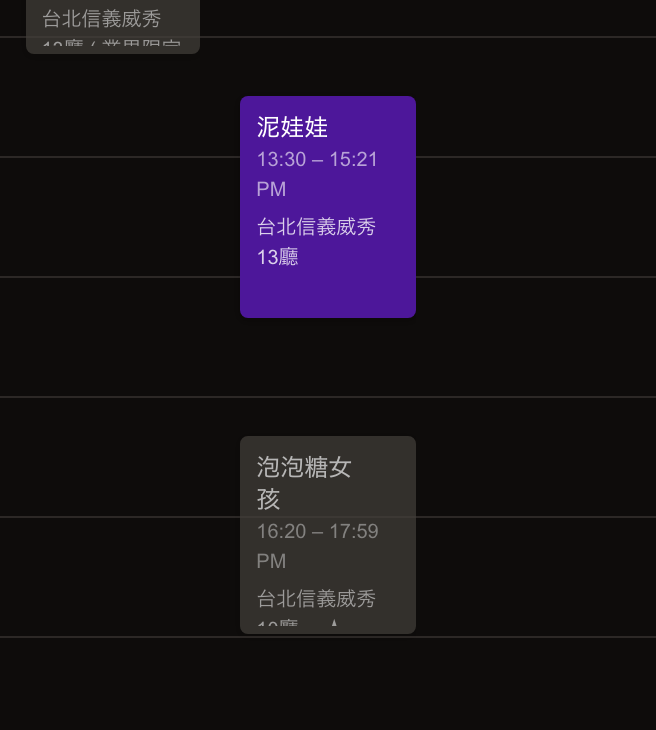
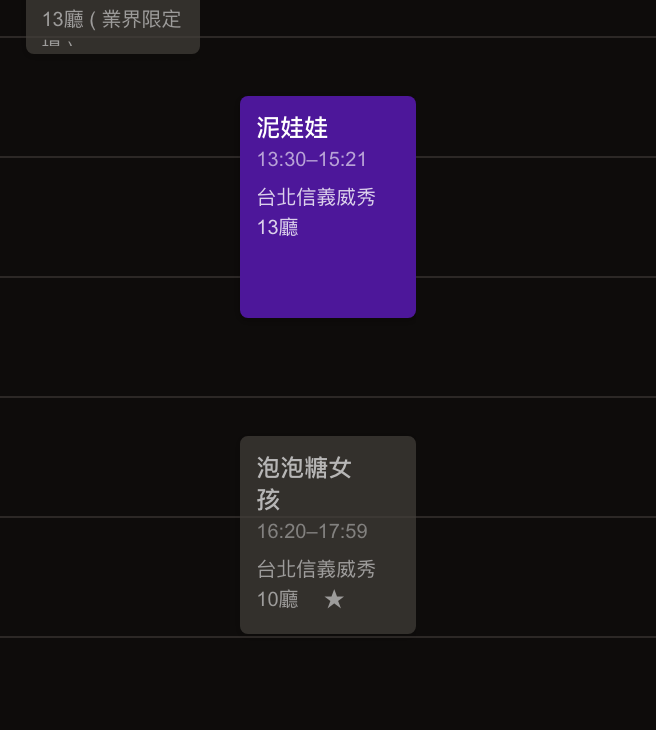
feat(ui): translate remaining UI to Traditional Chinese
- Hour labels in week and day view use 24-hour "10:00" instead of "10 AM",
  matching session times elsewhere; session blocks read "13:30–15:21".
- Now indicator reads "現在 22:45".
- Mini calendar: 日…六 weekday row, "11月" month label, and tooltips via
  the new formatDateTimeZh() ("11/20（五）21:40") instead of
  toLocaleString(); the import dialog uses it too.
- Screen-reader text in the shadcn primitives (關閉, 切換側欄, 上一張/下一張).
- <html lang="zh-Hant-TW">.
- Remove the unused FilmModal component.
- Re-capture the tutorial screenshots with the new labels.

diff --git a/apps/film-scheduler/components/SessionsMiniPreview.tsx b/apps/film-scheduler/components/SessionsMiniPreview.tsx
@@ -1,5 +1,5 @@
 import React, { useMemo } from "react";
-import dayjs from "dayjs";
+import dayjs, { formatDateTimeZh } from "@/lib/dayjs";
 import {
   TooltipTrigger,
   TooltipProvider,
@@ -77,7 +77,7 @@ export const SessionsMiniPreview: React.FC<MonthViewProps> = ({
   return (
     <div className="rounded-lg border p-3">
       <div className="mb-1 grid grid-cols-7 gap-1">
-        {["Sun", "Mon", "Tue", "Wed", "Thu", "Fri", "Sat"].map((day) => (
+        {["日", "一", "二", "三", "四", "五", "六"].map((day) => (
           <div key={day} className="text-center text-[0.7rem] font-medium text-muted-foreground">
             {day}
           </div>
@@ -94,7 +94,7 @@ export const SessionsMiniPreview: React.FC<MonthViewProps> = ({
               <div className="mb-1 flex items-baseline gap-1 text-xs leading-none">
                 <span className="font-medium tabular-nums">{day.format("D")}</span>
                 {showMonth && (
-                  <span className="truncate text-[0.65rem] text-muted-foreground">{day.format("MMM")}</span>
+                  <span className="truncate text-[0.65rem] text-muted-foreground">{day.format("M月")}</span>
                 )}
               </div>
               {sessions.map((session) => {
@@ -114,7 +114,7 @@ export const SessionsMiniPreview: React.FC<MonthViewProps> = ({
                       </TooltipTrigger>
                       <TooltipContent side="bottom">
                         {session.film.filmTitle} {session.location} -{" "}
-                        {new Date(session.time).toLocaleString()}
+                        {formatDateTimeZh(session.time)}
                       </TooltipContent>
                     </Tooltip>
                   </TooltipProvider>

diff --git a/apps/film-scheduler/components/ui/sidebar.tsx b/apps/film-scheduler/components/ui/sidebar.tsx
@@ -281,7 +281,7 @@ const SidebarTrigger = React.forwardRef<
       {...props}
     >
       <PanelLeft />
-      <span className="sr-only">Toggle Sidebar</span>
+      <span className="sr-only">切換側欄</span>
     </Button>
   )
 })
@@ -297,10 +297,10 @@ const SidebarRail = React.forwardRef<
     <button
       ref={ref}
       data-sidebar="rail"
-      aria-label="Toggle Sidebar"
+      aria-label="切換側欄"
       tabIndex={-1}
       onClick={toggleSidebar}
-      title="Toggle Sidebar"
+      title="切換側欄"
       className={cn(
         "absolute inset-y-0 z-20 hidden w-4 -translate-x-1/2 transition-all ease-linear after:absolute after:inset-y-0 after:left-1/2 after:w-[2px] hover:after:bg-sidebar-border group-data-[side=left]:-right-4 group-data-[side=right]:left-0 sm:flex",
         "in-data-[side=left]:cursor-w-resize in-data-[side=right]:cursor-e-resize",

diff --git a/apps/film-scheduler/components/ImportModal.tsx b/apps/film-scheduler/components/ImportModal.tsx
@@ -11,6 +11,7 @@ import { Button } from "@/components/ui/button";
 import { Checkbox } from "@/components/ui/checkbox";
 import { SessionsMiniPreview } from "@/components/SessionsMiniPreview";
 import { Session, FilmsMap } from "@/components/types";
+import { formatDateTimeZh } from "@/lib/dayjs";
 
 interface ImportModalProps {
   sessions: Session[];
@@ -107,7 +108,7 @@ export function ImportModal({
                 />
                 <label htmlFor={`checkbox-${sessionId}`}>
                   {film.filmTitle} {session.location} -{" "}
-                  {new Date(session.time).toLocaleString()}
+                  {formatDateTimeZh(session.time)}
                 </label>
               </div>
             );

diff --git a/apps/film-scheduler/components/ui/dialog.tsx b/apps/film-scheduler/components/ui/dialog.tsx
@@ -46,7 +46,7 @@ const DialogContent = React.forwardRef<
       {children}
       <DialogPrimitive.Close className="absolute right-4 top-4 rounded-sm opacity-70 ring-offset-background transition-opacity hover:opacity-100 focus:outline-hidden focus-visible:ring-2 focus-visible:ring-ring focus-visible:ring-offset-2 disabled:pointer-events-none data-[state=open]:bg-accent data-[state=open]:text-muted-foreground">
         <Cross2Icon className="h-4 w-4" />
-        <span className="sr-only">Close</span>
+        <span className="sr-only">關閉</span>
       </DialogPrimitive.Close>
     </DialogPrimitive.Content>
   </DialogPortal>

diff --git a/apps/film-scheduler/components/WeekView.tsx b/apps/film-scheduler/components/WeekView.tsx
@@ -682,7 +682,7 @@ export function WeekView({
               <span className="md:text-xs text-[10px] absolute p-1 -top-3 bg-background">
                 {dayjs()
                   .hour(startHour + hour)
-                  .format("h A")}
+                  .format("HH:00")}
               </span>
             </div>
           ))}
@@ -704,7 +704,7 @@ export function WeekView({
           }}
         >
           <span className="absolute bg-brand text-brand-foreground text-xs px-1 rounded-b left-2">
-            Now {now.format("HH:mm")}
+            現在 {now.format("HH:mm")}
           </span>
         </div>
       )}

diff --git a/apps/film-scheduler/components/ui/sheet.tsx b/apps/film-scheduler/components/ui/sheet.tsx
@@ -66,7 +66,7 @@ const SheetContent = React.forwardRef<
     >
       <SheetPrimitive.Close className="absolute right-4 top-4 rounded-sm opacity-70 ring-offset-background transition-opacity hover:opacity-100 focus:outline-hidden focus:ring-2 focus:ring-ring focus:ring-offset-2 disabled:pointer-events-none data-[state=open]:bg-secondary">
         <Cross2Icon className="h-4 w-4" />
-        <span className="sr-only">Close</span>
+        <span className="sr-only">關閉</span>
       </SheetPrimitive.Close>
       {children}
     </SheetPrimitive.Content>

diff --git a/apps/film-scheduler/components/ui/carousel.tsx b/apps/film-scheduler/components/ui/carousel.tsx
@@ -217,7 +217,7 @@ const CarouselPrevious = React.forwardRef<
       {...props}
     >
       <ArrowLeftIcon className="h-4 w-4" />
-      <span className="sr-only">Previous slide</span>
+      <span className="sr-only">上一張</span>
     </Button>
   )
 })
@@ -246,7 +246,7 @@ const CarouselNext = React.forwardRef<
       {...props}
     >
       <ArrowRightIcon className="h-4 w-4" />
-      <span className="sr-only">Next slide</span>
+      <span className="sr-only">下一張</span>
     </Button>
   )
 })

diff --git a/apps/film-scheduler/components/SessionBlock.tsx b/apps/film-scheduler/components/SessionBlock.tsx
@@ -138,8 +138,7 @@ export function SessionBlock({
 
       <div className="text-xs font-medium w-full pr-4">{film.filmTitle}</div>
       <p className="text-[10px] text-white/60 mb-1">
-        {startTime.format(startTime.minute() === 0 ? "HH" : "HH:mm")} ‒{" "}
-        {endTime.format(endTime.minute() === 0 ? "HH A" : "HH:mm A")}
+        {startTime.format("HH:mm")}–{endTime.format("HH:mm")}
       </p>
       <p className="text-[10px] text-white/80">{session.location}</p>
     </div>

diff --git a/apps/film-scheduler/lib/dayjs.ts b/apps/film-scheduler/lib/dayjs.ts
@@ -18,4 +18,10 @@
     return short ? day : `週${day}`;
   }
 
+  /** Short Chinese date-time for tooltips and lists: "11/20（五）21:40". */
+  export function formatDateTimeZh(date: dayjs.ConfigType) {
+    const d = dayjs(date);
+    return `${d.format("M/D")}（${weekdayZh(d, { short: true })}）${d.format("HH:mm")}`;
+  }
+
   export default dayjs;

diff --git a/apps/film-scheduler/components/DayView.tsx b/apps/film-scheduler/components/DayView.tsx
@@ -165,7 +165,7 @@ type LayoutProps = {
   nowLabel: string;
 };
 
-const hourLabel = (hour: number) => dayjs().hour(startHour + hour).format("h A");
+const hourLabel = (hour: number) => dayjs().hour(startHour + hour).format("HH:00");
 
 /**
  * Phones: time runs down a sticky left column and every venue is a column

diff --git a/apps/film-scheduler/app/layout.tsx b/apps/film-scheduler/app/layout.tsx
@@ -27,7 +27,7 @@ export default function RootLayout({
   children: React.ReactNode;
 }>) {
   return (
-    <html lang="en" suppressHydrationWarning>
+    <html lang="zh-Hant-TW" suppressHydrationWarning>
       <body
         className={`${geistSans.variable} ${geistMono.variable} antialiased`}
       >
